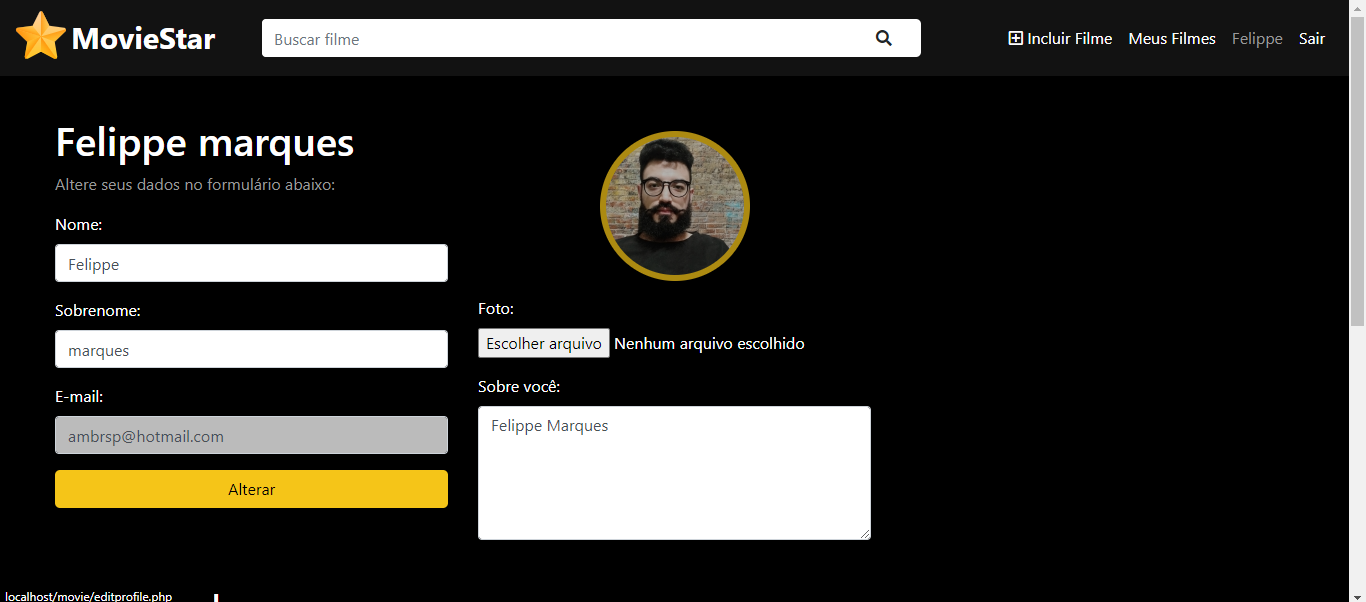
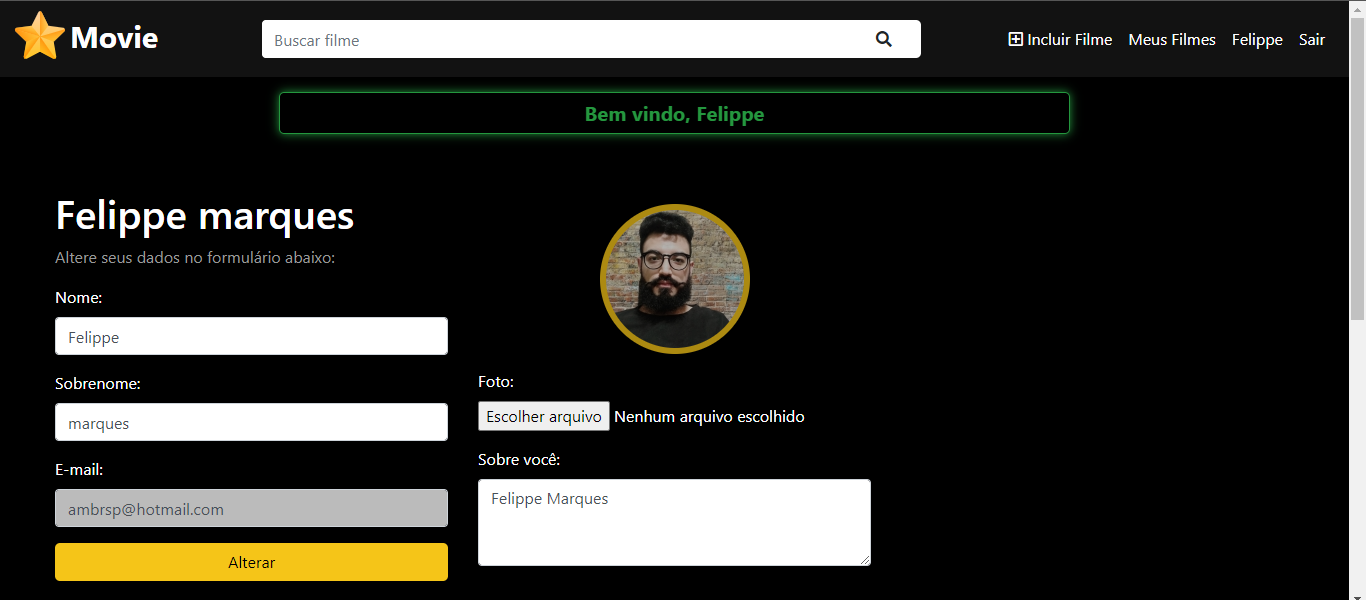
alt

diff --git a/templates/header.php b/templates/header.php
@@ -27,7 +27,7 @@
 
 <head>
     <meta charset="utf-8">
-    <title>MovieStar</title>
+    <title>Movie</title>
     <meta name="viewport" content="width=device-width, initial-scale=1.0">
     <link rel="shortcut icon" href="<?= $BASE_URL ?>image/moviestar.ico" type="image/x-icon">
 
@@ -47,7 +47,7 @@
         <nav id="main-navbar" class="navbar navbar-expand-lg">
             <a href="<?= $BASE_URL ?>" class="navbar-brand">
                 <img src="<?= $BASE_URL ?>image/logo.svg" alt="x" id="logo">
-                <span id="moviestar-title">MovieStar</span>
+                <span id="moviestar-title">Movie</span>
             </a>
 
             <button class="navbar-toggler" type="button" data-toggle="collapse" data-target="#navbar" aria-controls="navbar" aria-expanded="false" aria-label="Toggle navigation">
